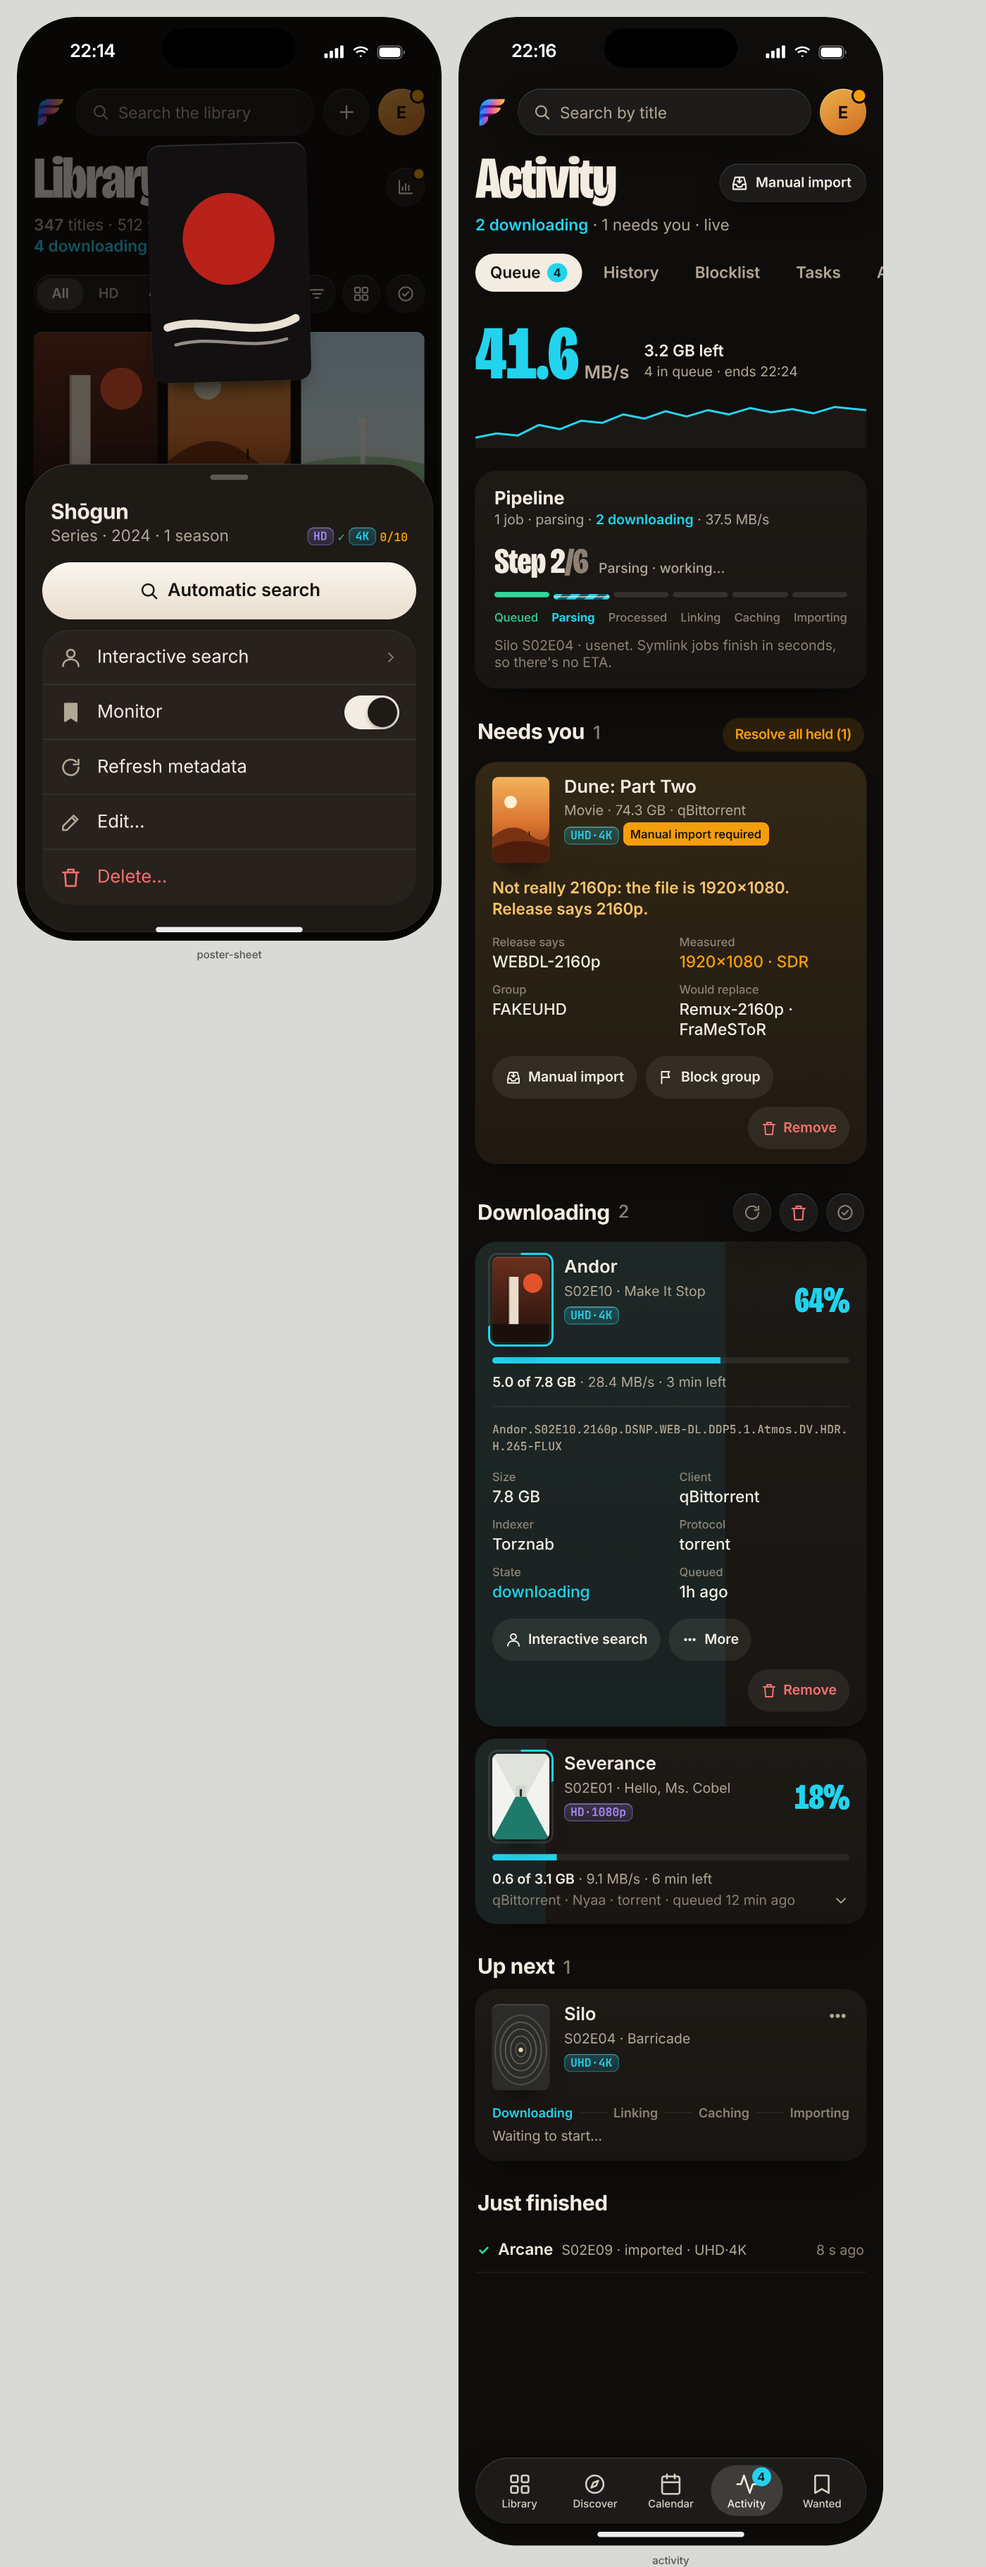
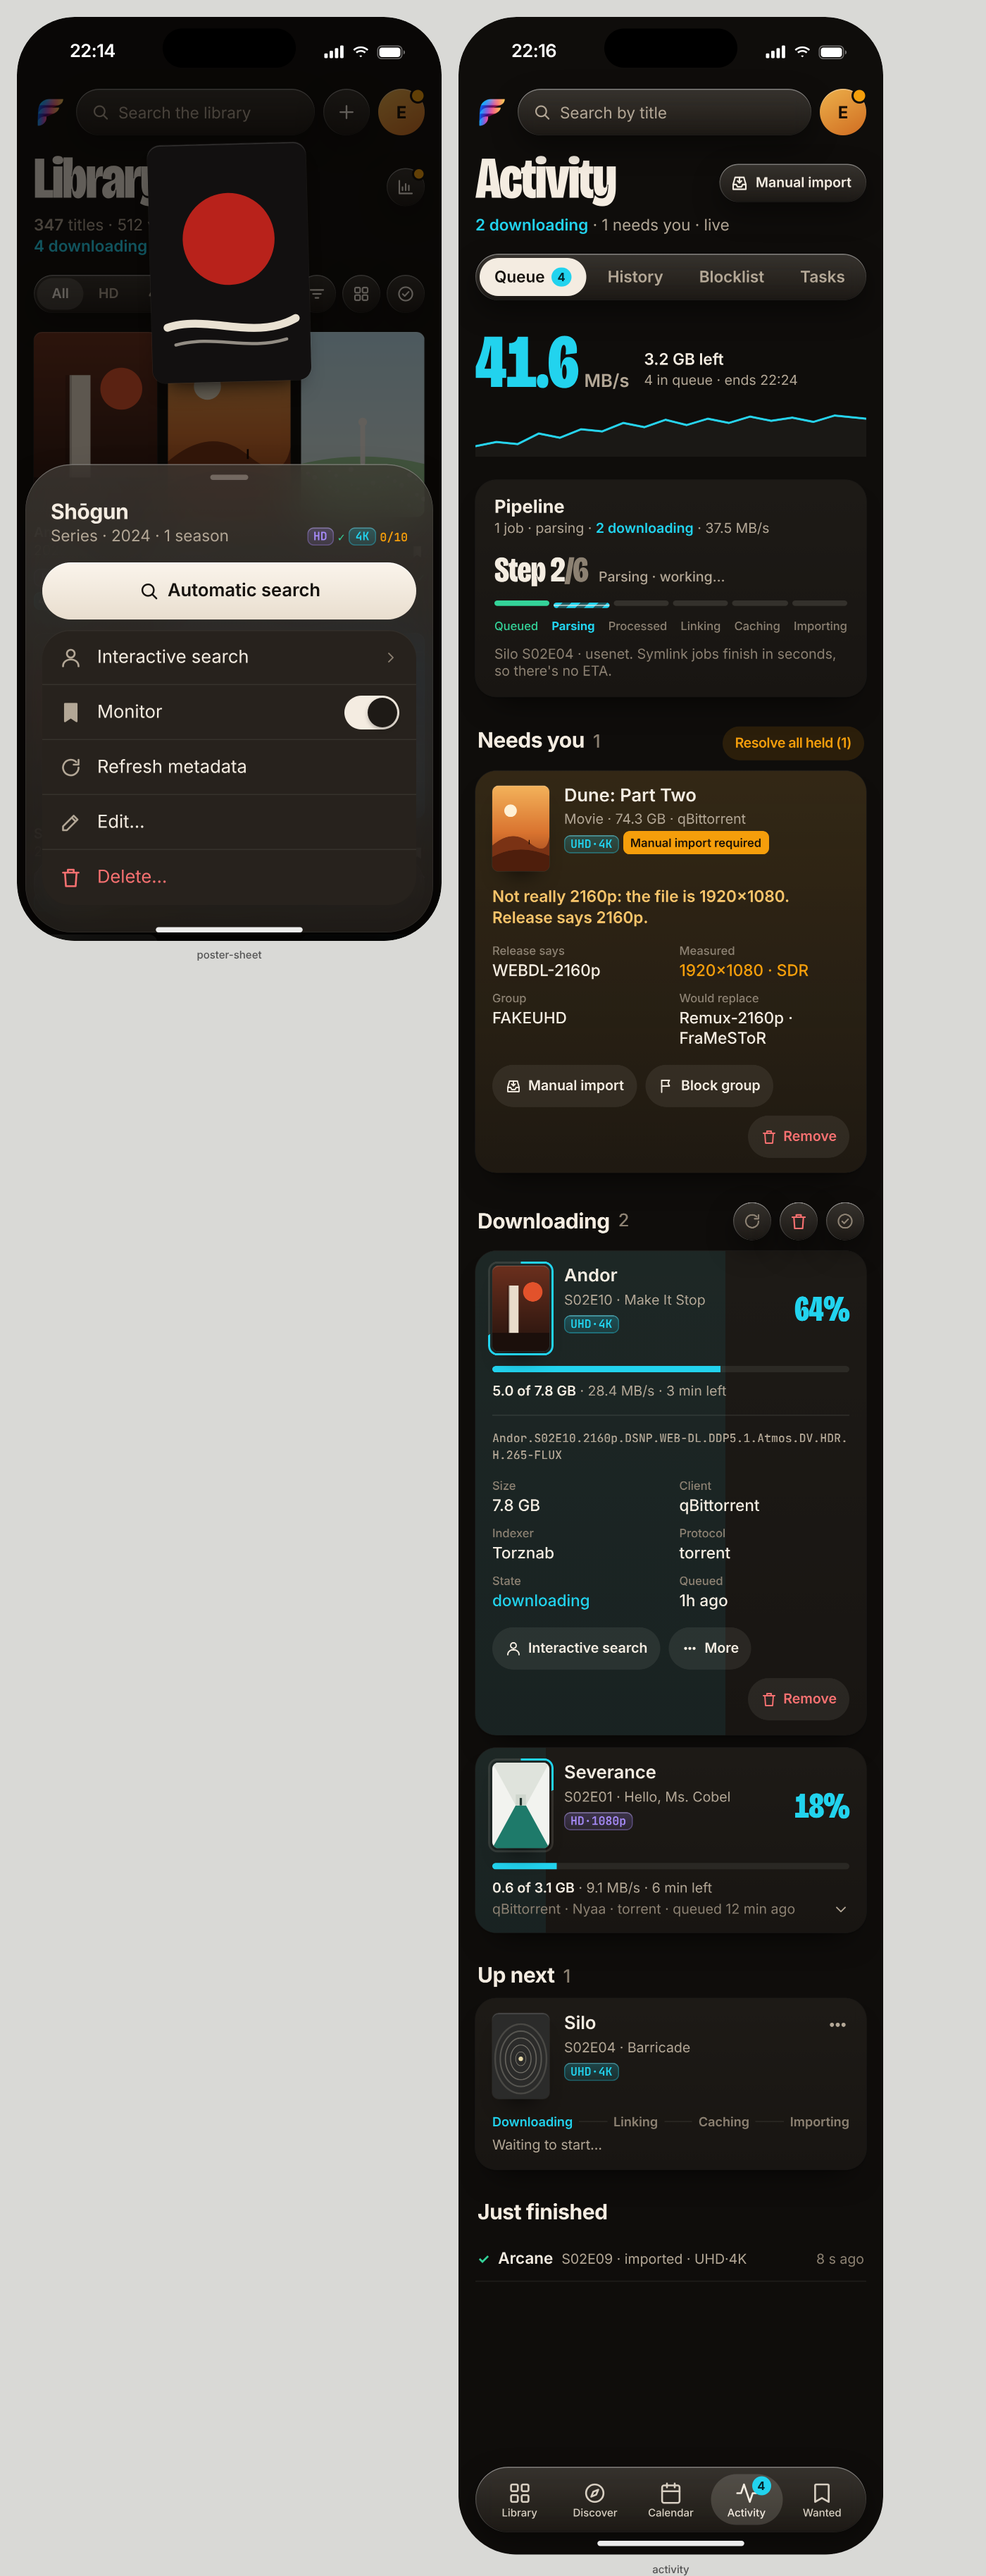
Redesign: Liquid Glass on every floating control
Lens-style glass is now the default for the top bar, tab bar, tab strips,
segmented controls, chips, swipe buttons and the Duo side bar; sheets, toasts
and the Undo bar use a denser regular glass. Content runs under the tab bar.

Claude-Session: https://claude.ai/code/session_014m8GXGta1yoU5Fnz4ZUVLk

diff --git a/docs/design/redesign/requests.css b/docs/design/redesign/requests.css
@@ -59,18 +59,18 @@
 .onapp { display: flex; align-items: center; gap: 6px; flex-wrap: wrap; font: 400 13px var(--sf); color: var(--ink-2); margin: 14px 0 0; padding-top: 12px; border-top: 1px solid var(--hair); }
 .onapp b { color: var(--ink); } .onapp em { font-style: normal; font-weight: 600; color: var(--ink); margin-left: auto; }
 .deck-btns { display: flex; justify-content: center; gap: 22px; margin-top: 18px; flex: none; }
-.db { width: 60px; height: 60px; border-radius: 30px; display: grid; place-items: center; background: #24201C; box-shadow: 0 10px 20px -10px rgba(0,0,0,.9); }
+.db { width: 60px; height: 60px; border-radius: 30px; display: grid; place-items: center; }
 .db svg { width: 26px; height: 26px; }
 .db.info { width: 48px; height: 48px; margin-top: 6px; color: var(--ink-2); } .db.info svg { width: 22px; height: 22px; }
 .db.no { color: var(--danger); } .db.yes { color: #15110D; background: linear-gradient(180deg, #FBF5EC, #E9DECF); }
 .hint { text-align: center; font: 400 13px var(--sf); color: var(--ink-3); margin: 12px 0 0; flex: none; }
-.undo { position: absolute; left: 16px; right: 16px; bottom: 96px; z-index: 60; display: flex; align-items: center; gap: 10px; padding: 14px 16px; border-radius: 20px; font: 400 15px var(--sf); background: #2A2520; box-shadow: 0 24px 40px -18px rgba(0,0,0,.9); overflow: hidden; }
+.undo { position: absolute; left: 16px; right: 16px; bottom: 96px; z-index: 60; display: flex; align-items: center; gap: 10px; padding: 14px 16px; border-radius: 24px; font: 400 15px var(--sf); overflow: hidden; }
 .undo div { flex: 1; } .undo span { font: 700 15px var(--sf); }
 .drain { position: absolute; left: 0; bottom: 0; height: 3px; width: 64%; background: var(--done); }
 /* Report an issue sheet */
 .hero-mini { position: absolute; inset: 0 0 auto; height: 420px; border-radius: 0; aspect-ratio: auto; }
 .scrim2 { position: absolute; inset: 0; background: rgba(6,5,4,.6); z-index: 5; }
-.isheet { position: absolute; z-index: 10; left: 0; right: 0; bottom: 0; top: 100px; border-radius: 34px 34px 0 0; background: #1C1915; padding: 8px 20px 0; display: flex; flex-direction: column; }
+.isheet { position: absolute; z-index: 10; left: 0; right: 0; bottom: 0; top: 100px; border-radius: 34px 34px 0 0; padding: 8px 20px 0; display: flex; flex-direction: column; }
 .is-head { display: flex; align-items: center; gap: 12px; margin-top: 6px; }
 .is-p { width: 40px; flex: none; border-radius: 5px; }
 .is-head b { display: block; font: 700 20px var(--sf); } .is-head span { font: 400 13px var(--sf); color: var(--ink-2); }
@@ -116,3 +116,4 @@
 .cu-row .ev-r em { font-style: normal; color: var(--ink-3); }
 .prem { font-style: normal; font: 600 11px var(--sf); color: #9CC0FF; background: rgba(59,130,246,.16); border-radius: 5px; padding: 1px 5px; margin-left: 4px; }
 .req .jf-row { margin: 0 16px; }
+.screen[data-theme="dark"] .db.yes { background: linear-gradient(180deg, #FBF5EC, #E9DECF); box-shadow: inset 0 1px 0 rgba(255,255,255,.7), 0 10px 26px rgba(0,0,0,.42); }

diff --git a/docs/design/redesign/app.css b/docs/design/redesign/app.css
@@ -122,3 +122,32 @@
 .mut { color: var(--ink-2); } .dim { color: var(--ink-3); }
 .num { font-variant-numeric: tabular-nums; }
 .kmenu .short { display: none; }
+
+/* ---------- Liquid Glass, the default for every floating control ----------
+   iOS 26 glass is a lens, not a frosted grey: a light blur so the content
+   under it shows as colour, high saturation, a bright rim at the top-left,
+   a darker lip at the bottom and a floating shadow. Controls use the clear
+   variant; sheets, toasts and the Undo bar use the denser "regular" variant
+   so their text stays legible over any poster. Content stays solid. */
+.screen[data-theme="dark"] .glass,
+.screen[data-theme="dark"] .segs,
+.screen[data-theme="dark"] .db {
+  background: linear-gradient(180deg, rgba(255,248,236,.15), rgba(255,248,236,.04)), rgba(26,22,19,.30);
+  -webkit-backdrop-filter: blur(9px) saturate(1.9) brightness(1.06); backdrop-filter: blur(9px) saturate(1.9) brightness(1.06);
+  box-shadow: inset 0 1px 0 rgba(255,255,255,.34), inset 1px 0 0 rgba(255,255,255,.12), inset 0 -1px 0 rgba(0,0,0,.28),
+              inset 0 0 0 .5px rgba(255,255,255,.10), 0 10px 26px rgba(0,0,0,.42);
+}
+.screen[data-theme="dark"] .glass-regular,
+.screen[data-theme="dark"] .toast,
+.screen[data-theme="dark"] .undo,
+.screen[data-theme="dark"] .msheet,
+.screen[data-theme="dark"] .isheet {
+  background: linear-gradient(180deg, rgba(255,248,236,.12), rgba(255,248,236,.03)), rgba(28,24,20,.74) !important;
+  -webkit-backdrop-filter: blur(24px) saturate(1.8) !important; backdrop-filter: blur(24px) saturate(1.8) !important;
+  box-shadow: inset 0 1px 0 rgba(255,255,255,.26), inset 0 0 0 .5px rgba(255,255,255,.08), 0 24px 48px -16px rgba(0,0,0,.8) !important;
+}
+/* The tab strip is a glass capsule holding its tabs. */
+.segs { margin: 16px 16px 0; padding: 4px !important; border-radius: 22px; width: max-content; max-width: calc(100% - 32px); }
+/* Content runs under the tab bar so the glass has something to bend; only a
+   short scroll-edge fade keeps the home indicator legible. */
+.edge { height: 46px !important; background: linear-gradient(to bottom, rgba(15,13,11,0), rgba(15,13,11,.75)) !important; z-index: 40 !important; }

diff --git a/docs/design/redesign/requests.html b/docs/design/redesign/requests.html
@@ -12,7 +12,7 @@
 <body>
 
 <!-- 13. Discover › Requests, requester view (MyRequests + RequestCard) -->
-<section class="screen req" data-name="requests-mine" data-kind="list" data-theme="dark" data-time="22:30" data-palette="identity" data-tall>
+<section class="screen req" data-name="requests-mine" data-kind="list" data-theme="dark" data-time="22:30" data-palette="identity">
   <div class="body">
     <div class="topbar">
       <img class="logo" src="fusionha-logo.png" alt="fusionha">

diff --git a/docs/design/redesign/screens.css b/docs/design/redesign/screens.css
@@ -169,7 +169,7 @@
   .screen .rail-row .ed.fill ~ .rbar { display: none; }
   .screen .rail-row .ed.fill ~ .rc { margin-left: auto; }
 }
-.msheet.glass { background: #1E1A16 !important; backdrop-filter: none !important; }
+/* .msheet uses the regular glass (app.css) */
 
 /* ---------- Whole-page (data-tall) screens: content flows, nothing clips ---------- */
 .screen[data-tall] .body { position: relative; inset: auto; padding-top: var(--safe-top); padding-bottom: 130px; }

diff --git a/docs/design/redesign/DIRECTION.md b/docs/design/redesign/DIRECTION.md
@@ -153,6 +153,8 @@ Glass stays on the navigation layer only (iOS 26 rule, CLAUDE.md), but the mock 
 - **Tab bar minimises on scroll** (`tabBarMinimizeBehavior(.onScrollDown)`, already in RootView) to the current tab, and the **downloads bottom accessory** (`tabViewBottomAccessory`) sits beside it: poster, "Andor · S2E10", tier, speed, ETA and a progress ring. Tapping it opens Activity.
 - **Glass groups morph:** the All / HD / 4K segment, kind chips and toolbar groups live in a `GlassEffectContainer` with `glassEffectID`, so selection slides rather than swaps (Reduce Motion: instant).
 - Posters, cards and rows stay solid.
+- **Every mock uses it (owner review, 2026-10-13):** the lens glass is the default for every floating control (top-bar pill and buttons, tab bar, tab strips and segmented controls, filter and kind chips, the Inbox swipe buttons, toolbar groups, the Duo side bar). Sheets, toasts and the Undo bar use a denser *regular* glass so their text stays legible. Content scrolls under the tab bar; only a 46pt scroll-edge fade remains for the home indicator. Approve stays solid ink (`.glassProminent`).
+- **Font:** keep Bricolage Grotesque Condensed 800 for titles (owner, 2026-10-13).
 
 ## iPhone Duo (screens `duo-outer`, `duo-open`, `duo-portrait`, `duo-book`)
 
